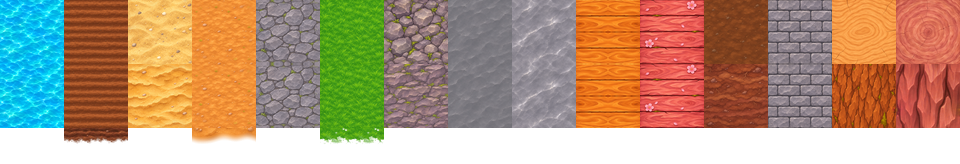
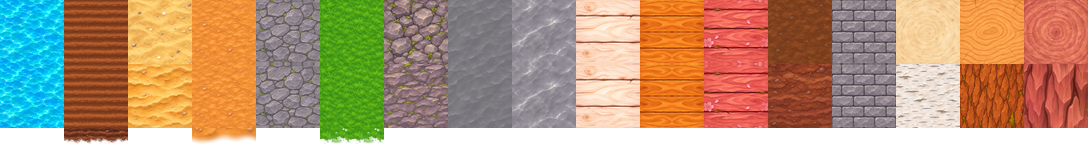
Bétula e madeira de bétula; tábuas de cerejeira contínuas (v0.89.0)
Árvore nova (3 formas) misturada aos carvalhos e macieiras dos Campos, com Tora de Bétula (topo e frente) e Tábuas de
Bétula (só o topo). Biome.altTrees generaliza a árvore misturada: a macieira mantém o sorteio de sempre, então só
alguns carvalhos viram bétula. Baú, porta, cadeira e cerca seguem só de carvalho (decisão do dono do produto).

Claude-Session: https://claude.ai/code/session_01KGdgomm438trDHTLPLqJmv

diff --git a/src/world/blocks.ts b/src/world/blocks.ts
@@ -28,6 +28,9 @@ export const Block = {
   /** Madeira de cerejeira (v0.88.0): tora (da Cerejeira derrubada) e tábuas (da tora). */
   CHERRY_LOG: 230,
   CHERRY_PLANKS: 231,
+  /** Madeira de bétula (v0.89.0): tora (da Bétula derrubada) e tábuas (da tora). */
+  BIRCH_LOG: 232,
+  BIRCH_PLANKS: 233,
   // --- porta (objeto de 3 níveis de altura; o id guarda o estado) ---
   OAK_DOOR: 28,
   /** Porta aberta: mesma porta, passável. Só existe no mundo (a hotbar coloca a fechada). */
@@ -70,6 +73,8 @@ export const Block = {
   // --- árvores (objeto alto) ---
   OAK_TREE: 40,
   SAKURA_TREE: 41,
+  /** Bétula (v0.89.0): mistura-se aos carvalhos dos Campos. */
+  BIRCH_TREE: 59,
   // --- estágios de crescimento APOSENTADOS (v0.88.0: as árvores só aparecem adultas): ids reservados, ver `GROWTH_STAGE_ADULT` ---
   OAK_SAPLING: 52,
   OAK_YOUNG: 53,
@@ -298,6 +303,8 @@ const defs: BlockDef[] = [
   object(Block.OAK_PLANKS, 'Tábua de Carvalho', { organic: 'wood' }),
   object(Block.CHERRY_LOG, 'Tora de Cerejeira', { organic: 'wood' }),
   object(Block.CHERRY_PLANKS, 'Tábua de Cerejeira', { organic: 'wood' }),
+  object(Block.BIRCH_LOG, 'Tora de Bétula', { organic: 'wood' }),
+  object(Block.BIRCH_PLANKS, 'Tábua de Bétula', { organic: 'wood' }),
   // Porta: ocupa a célula inteira (nada empilha em cima); fechada bloqueia, aberta deixa passar.
   object(Block.OAK_DOOR, 'Porta de Carvalho', { shape: 'door', organic: 'wood' }),
   object(Block.TENT, 'Tenda', { shape: 'rock', organic: 'wood' }), // madeira: o machado quebra
@@ -316,6 +323,7 @@ const defs: BlockDef[] = [
   object(Block.CACTUS, 'Cacto', { placeable: false, organic: 'plant' }),
   object(Block.OAK_TREE, 'Carvalho', { shape: 'tree', placeable: false, organic: 'wood' }),
   object(Block.SAKURA_TREE, 'Cerejeira', { shape: 'tree', placeable: false, organic: 'wood' }),
+  object(Block.BIRCH_TREE, 'Bétula', { shape: 'tree', placeable: false, organic: 'wood' }),
   // Mudas são plantas (a enxada arranca); dali em diante, madeira.
   object(Block.OAK_SAPLING, 'Muda de Carvalho', { shape: 'tree', placeable: false, organic: 'plant' }),
   object(Block.OAK_YOUNG, 'Carvalho Jovem', { shape: 'tree', placeable: false, organic: 'wood' }),
@@ -417,9 +425,11 @@ export const MATERIALS: BlockId[] = [
   Block.STONE_POLISHED,
   Block.STONE_CRACKED,
   Block.STONE_BRICK_CRACKED,
-  // Madeira de cerejeira (v0.88.0): só no V2 (não há coluna no atlas antigo, que termina nas pedras).
+  // Madeira de cerejeira (v0.88.0) e de bétula (v0.89.0): só no V2 (não há coluna no atlas antigo, que termina nas pedras).
   Block.CHERRY_LOG,
   Block.CHERRY_PLANKS,
+  Block.BIRCH_LOG,
+  Block.BIRCH_PLANKS,
 ];
 
 /** Blocos do Santuário Celestial, na ordem da prancha (e da hotbar do Santuário). */

diff --git a/src/world/trees.test.ts b/src/world/trees.test.ts
@@ -102,19 +102,41 @@ describe('Árvores adultas (carvalho, macieira, cerejeira; sem crescimento desde
     expect(applyAction(w, parseAction({ kind: 'pick', x, y })!)).toBe(true);
   });
 
-  it('Campos misturam macieiras aos carvalhos', () => {
-    expect(BIOMES.meadow.altTree).toEqual({ id: Block.APPLE_TREE, share: 1 / 6 });
+  it('Campos misturam macieiras e bétulas aos carvalhos (a macieira cai onde sempre caiu)', () => {
+    expect(BIOMES.meadow.altTrees).toEqual([{ id: Block.APPLE_TREE, share: 1 / 6 }, { id: Block.BIRCH_TREE, share: 1 / 5 }]);
     const w = new World(42);
-    let oak = 0, apple = 0;
+    let oak = 0, apple = 0, birch = 0;
     for (let y = -150; y < 150; y++) {
       for (let x = -150; x < 150; x++) {
         const id = w.getObject(x, y);
         if (id === Block.OAK_TREE) oak++;
         if (id === Block.APPLE_TREE) apple++;
+        if (id === Block.BIRCH_TREE) birch++;
       }
     }
-    expect(apple).toBeGreaterThan(0);
-    expect(apple / (oak + apple)).toBeGreaterThan(0.08);
-    expect(apple / (oak + apple)).toBeLessThan(0.3);
+    const all = oak + apple + birch;
+    expect(apple / all).toBeGreaterThan(0.1);
+    expect(apple / all).toBeLessThan(0.25);
+    expect(birch / all).toBeGreaterThan(0.1);
+    expect(birch / all).toBeLessThan(0.25);
+    expect(oak).toBeGreaterThan(apple);
+  });
+
+  it('bétula: derrubada dá 2–3 Toras de Bétula; tora vira 2 tábuas; as duas são madeira (batente) e substituem a água', () => {
+    expect(dropsFor(Block.BIRCH_TREE, () => 0)).toEqual([]);
+    expect(blockDrops(Block.BIRCH_TREE, () => 0)).toEqual([{ item: `block:${Block.BIRCH_LOG}`, count: 3 }]);
+    expect(blockDrops(Block.BIRCH_TREE, () => 0.9)).toEqual([{ item: `block:${Block.BIRCH_LOG}`, count: 2 }]);
+    const recipe = RECIPES.find((r) => r.id === 'birch-planks')!;
+    expect(recipe.inputs).toEqual([{ item: `block:${Block.BIRCH_LOG}`, count: 1 }]);
+    expect(recipe.output).toEqual({ item: `block:${Block.BIRCH_PLANKS}`, count: 2 });
+    for (const id of [Block.BIRCH_LOG, Block.BIRCH_PLANKS]) {
+      expect(BLOCKS[id].organic).toBe('wood');
+      expect(REPLACES_WATER.has(id)).toBe(true);
+      expect(MATERIALS).toContain(id);
+    }
+    // Baú, porta, cadeira e cerca continuam só de Carvalho (dono do produto): nenhuma receita aceita madeira de outra árvore.
+    for (const r of RECIPES.filter((x) => ['oak-door', 'oak-chest', 'wooden-chair', 'wooden-fence', 'wooden-gate'].includes(x.id))) {
+      for (const inp of r.inputs) expect([`block:${Block.OAK_PLANKS}`, `block:${Block.OAK_LOG}`]).toContain(inp.item);
+    }
   });
 });

diff --git a/src/world/items.ts b/src/world/items.ts
@@ -161,7 +161,7 @@ export function dropsFor(id: BlockId, rand: () => number = Math.random): Drop[] 
 function treeDrops(id: BlockId, rand: () => number): Drop[] | null {
   switch (id) {
     case Block.APPLE_TREE: return pickDrops(rand);
-    case Block.OAK_TREE: case Block.SAKURA_TREE: case Block.APPLE_TREE_BARE: return [];
+    case Block.OAK_TREE: case Block.SAKURA_TREE: case Block.BIRCH_TREE: case Block.APPLE_TREE_BARE: return [];
     default: return null;
   }
 }
@@ -261,12 +261,13 @@ const ADULT_TREES = new Set<number>([Block.OAK_TREE, Block.APPLE_TREE, Block.APP
 
 /**
  * O que um bloco quebrado devolve como material (mundos com coleta): o próprio material (cubo ou chão;
- * Terra com Grama volta como Terra com Grama), árvores dão 2–3 Toras (de Carvalho; a Cerejeira, de Cerejeira), porta volta porta.
+ * Terra com Grama volta como Terra com Grama), árvores dão 2–3 Toras (de Carvalho; a Cerejeira, de Cerejeira; a Bétula, de Bétula), porta volta porta.
  * Plantas, enfeites e blocos de outros mundos não devolvem material (plantas: ver `toolDrops`).
  */
 export function blockDrops(id: BlockId, rand: () => number = Math.random): Drop[] {
   if (ADULT_TREES.has(id)) return [{ item: blockStack(Block.OAK_LOG), count: 2 + (rand() < 0.5 ? 1 : 0) }];
   if (id === Block.SAKURA_TREE) return [{ item: blockStack(Block.CHERRY_LOG), count: 2 + (rand() < 0.5 ? 1 : 0) }]; // Cerejeira → Tora de Cerejeira
+  if (id === Block.BIRCH_TREE) return [{ item: blockStack(Block.BIRCH_LOG), count: 2 + (rand() < 0.5 ? 1 : 0) }]; // Bétula → Tora de Bétula
   if (isDoor(id)) return [{ item: blockStack(Block.OAK_DOOR), count: 1 }];
   if (isGate(id)) return [{ item: blockStack(Block.FENCE_GATE), count: 1 }];
   // Pedregulho: vira 1–3 Pedras Brutas (o bloco de pedra; colocado no mundo, é cubo).
@@ -319,6 +320,10 @@ export const RECIPES: Recipe[] = [
   {
     id: 'oak-planks', name: 'Tábua de Carvalho', profession: 'builder',
     inputs: [{ item: blockStack(Block.OAK_LOG), count: 1 }], output: { item: blockStack(Block.OAK_PLANKS), count: 2 },
+  },
+  {
+    id: 'birch-planks', name: 'Tábua de Bétula', profession: 'builder',
+    inputs: [{ item: blockStack(Block.BIRCH_LOG), count: 1 }], output: { item: blockStack(Block.BIRCH_PLANKS), count: 2 },
   },
   {
     id: 'cherry-planks', name: 'Tábua de Cerejeira', profession: 'builder',

diff --git a/src/render/textures.ts b/src/render/textures.ts
@@ -480,6 +480,8 @@ const OUTLINE: Record<number, string> = {
   [Block.OAK_PLANKS]: '#4e3018',
   [Block.CHERRY_LOG]: '#5a2a24',
   [Block.CHERRY_PLANKS]: '#6a2e2a',
+  [Block.BIRCH_LOG]: '#6a5a48',
+  [Block.BIRCH_PLANKS]: '#8a6a44',
 };
 
 // ---------------------------------------------------------------- água
@@ -518,7 +520,7 @@ function waterTile(variant: number): HTMLCanvasElement {
 // ---------------------------------------------------------------- árvores e enfeites
 
 /** Quadros de cada tira de árvore adulta (`scripts/process-trees.py`): a variante de cada árvore é sorteada pela posição. */
-const TREE_FRAMES = { oak: 3, apple: 2, cherry: 3 } as const;
+const TREE_FRAMES = { oak: 3, apple: 2, cherry: 3, birch: 3 } as const;
 /** Largura da árvore em células de mundo (o quadro tem a árvore mais larga da espécie de ponta a ponta). */
 const TREE_CELLS = 3.4;
 
@@ -534,6 +536,7 @@ function growthTreeSprites(
   const oak = stripSprites(art.oak, TREE_FRAMES.oak, T * TREE_CELLS, 6);
   const apple = stripSprites(art.apple, TREE_FRAMES.apple, T * TREE_CELLS, 6);
   const cherry = stripSprites(art.cherry, TREE_FRAMES.cherry, T * TREE_CELLS, 6);
+  const birch = stripSprites(art.birch, TREE_FRAMES.birch, T * TREE_CELLS, 6);
   const cactus = gridSprites(art.cactus, 4, 2, 1.7, 3);
   const set = (id: BlockId, frames: Sprite[]) => {
     objects.set(id, frames[0]);
@@ -543,6 +546,7 @@ function growthTreeSprites(
   set(Block.APPLE_TREE, apple);
   set(Block.APPLE_TREE_BARE, apple); // mesma variante por célula (mesma ordem): só falta a arte "colhida"
   set(Block.SAKURA_TREE, cherry);
+  set(Block.BIRCH_TREE, birch);
   set(Block.CACTUS, cactus);
   return variants;
 }

diff --git a/src/render/art/principal.ts b/src/render/art/principal.ts
@@ -160,6 +160,9 @@ import treeOak from '../../assets/tree-oak.webp';
 import treeApple from '../../assets/tree-apple.webp';
 import treeCactus from '../../assets/tree-cactus.webp';
 import treeCherry from '../../assets/tree-cherry.webp';
+import treeBirch from '../../assets/tree-birch.webp';
+import birchLogIcon from '../../assets/icon-block-birch-log.webp';
+import birchPlanksIcon from '../../assets/icon-block-birch-planks.webp';
 import cherryLogIcon from '../../assets/icon-block-cherry-log.webp';
 import cherryPlanksIcon from '../../assets/icon-block-cherry-planks.webp';
 import appleIcon from '../../assets/icon-item-apple.webp';
@@ -314,6 +317,8 @@ const pack: ArtPack = {
     [Block.OAK_PLANKS]: oakPlanksIcon,
     [Block.CHERRY_LOG]: cherryLogIcon,
     [Block.CHERRY_PLANKS]: cherryPlanksIcon,
+    [Block.BIRCH_LOG]: birchLogIcon,
+    [Block.BIRCH_PLANKS]: birchPlanksIcon,
   },
   celestialIcons: {},
   oakDoor,
@@ -328,7 +333,7 @@ const pack: ArtPack = {
     chair: { icon: chairIcon, sprite: chairSprite },
   },
   // Árvores adultas em tiras de variantes (scripts/process-trees.py); cacto: prancha 4 × 2 (scripts/extract-trees.py).
-  trees: { oak: treeOak, apple: treeApple, cherry: treeCherry, cactus: treeCactus },
+  trees: { oak: treeOak, apple: treeApple, cherry: treeCherry, birch: treeBirch, cactus: treeCactus },
   rocks,
   // Cerca de tábuas (scripts/extract-fence.py): peças emendadas por vizinhos + portão.
   fence: { pieces: fencePieces, gate: fenceGate, icon: fenceIcon, gateIcon: fenceGateIcon },

diff --git a/src/render/blockArt.ts b/src/render/blockArt.ts
@@ -33,7 +33,7 @@ let chest: HTMLImageElement | null = null;
 /** Objetos fabricados (fogueira, caldeirão, forno), por nome da arte. */
 const craftables = new Map<string, HTMLImageElement>();
 /** Pranchas de crescimento (carvalho, macieira, cacto). */
-export interface TreeArt { oak: HTMLImageElement; apple: HTMLImageElement; cherry: HTMLImageElement; cactus: HTMLImageElement }
+export interface TreeArt { oak: HTMLImageElement; apple: HTMLImageElement; cherry: HTMLImageElement; birch: HTMLImageElement; cactus: HTMLImageElement }
 let trees: TreeArt | null = null;
 /** Tira de pedregulhos. */
 let rocks: HTMLImageElement | null = null;
@@ -66,8 +66,8 @@ export async function loadBlockArt(): Promise<void> {
     fence = { pieces, gate };
   }
   if (a.trees) {
-    const [oak, apple, cherry, cactus] = await Promise.all([load(a.trees.oak), load(a.trees.apple), load(a.trees.cherry), load(a.trees.cactus)]);
-    trees = { oak, apple, cherry, cactus };
+    const [oak, apple, cherry, birch, cactus] = await Promise.all([load(a.trees.oak), load(a.trees.apple), load(a.trees.cherry), load(a.trees.birch), load(a.trees.cactus)]);
+    trees = { oak, apple, cherry, birch, cactus };
   }
   if (a.town) {
     const entries = Object.entries(a.town);

diff --git a/src/world/biomes.ts b/src/world/biomes.ts
@@ -5,8 +5,11 @@ export interface Biome {
   name: string;
   ground: BlockId;
   tree: BlockId;
-  /** Outra árvore misturada à principal (ex.: macieiras nos Campos) e a fração dela. */
-  altTree?: { id: BlockId; share: number };
+  /**
+   * Outras árvores misturadas à principal (macieiras e bétulas nos Campos) e a fração de cada uma, sorteadas na ordem
+   * (a 1ª mantém o sorteio de sempre, então acrescentar uma no fim não muda onde as anteriores caem).
+   */
+  altTrees?: ReadonlyArray<{ id: BlockId; share: number }>;
   /** Densidade base de árvores (0..1) dentro de manchas de floresta. */
   treeDensity: number;
   decorations: BlockId[];
@@ -17,7 +20,8 @@ export interface Biome {
 export const BIOMES: Record<Biome['key'], Biome> = {
   meadow: {
     key: 'meadow', name: 'Campos Verdejantes', ground: Block.GRASS,
-    tree: Block.OAK_TREE, treeDensity: 0.22, altTree: { id: Block.APPLE_TREE, share: 1 / 6 },
+    tree: Block.OAK_TREE, treeDensity: 0.22,
+    altTrees: [{ id: Block.APPLE_TREE, share: 1 / 6 }, { id: Block.BIRCH_TREE, share: 1 / 5 }],
     decorations: [Block.TALL_GRASS, Block.TALL_GRASS, Block.FLOWER], decoChance: 0.12,
   },
   sakura: {

diff --git a/src/world/generator.ts b/src/world/generator.ts
@@ -83,9 +83,12 @@ export class WorldGenerator implements TerrainSource {
     const density = biome.treeDensity * (forest > 0.05 ? 1 : 0.12);
     let object: BlockId = Block.AIR;
     if (r < density) {
-      // Árvore da vez: a principal do bioma ou, numa fração, a misturada (macieiras nos Campos).
-      const alt = biome.altTree;
-      object = alt && hash2(this.seed, x + 4409, y - 2027) < alt.share ? alt.id : biome.tree;
+      // Árvore da vez: a principal do bioma ou, numa fração, uma das misturadas (macieiras e bétulas nos Campos).
+      object = biome.tree;
+      const alts = biome.altTrees ?? [];
+      for (let i = 0; i < alts.length; i++) {
+        if (hash2(this.seed, x + 4409 + i * 1013, y - 2027 + i * 389) < alts[i].share) { object = alts[i].id; break; }
+      }
     }
     else if (r > 0.994) object = Block.ROCK_BOULDER; // pedregulhos ocasionais (arte da prancha de pedras)
     else if (hash2(this.seed, x, y + 7919) < biome.decoChance) {

diff --git a/src/render/art/types.ts b/src/render/art/types.ts
@@ -60,10 +60,10 @@ export interface ArtPack {
   /** Pedregulhos: tira de quadros iguais (`scripts/extract-rocks.py`), um sorteado por célula. */
   rocks?: string;
   /**
-   * Árvores adultas (v0.88.0, sem crescimento): tiras de variantes carvalho/macieira/cerejeira (`scripts/process-trees.py`,
+   * Árvores adultas (v0.88.0, sem crescimento): tiras de variantes carvalho/macieira/cerejeira/bétula (`scripts/process-trees.py`,
    * quadros iguais lado a lado) e a prancha 4 × 2 do cacto (`scripts/extract-trees.py`).
    */
-  trees?: { oak: string; apple: string; cherry: string; cactus: string };
+  trees?: { oak: string; apple: string; cherry: string; birch: string; cactus: string };
   /** Interiores (`scripts/extract-interiors.py`), por id de `world/interiors.ts`; carregam em segundo plano. */
   interiors?: Record<string, string>;
   /** Cidade do Despertar: construções em imagem (`scripts/extract-town.py`); o resto é pintado em código. */

diff --git a/src/render/materialsV2.ts b/src/render/materialsV2.ts
@@ -43,6 +43,9 @@ export const V2_BLOCKS: Partial<Record<BlockId, V2Block>> = {
   // Madeira de cerejeira (v0.88.0): tora com topo e frente próprios; tábuas só com o topo (a frente repete o topo).
   [Block.CHERRY_LOG]: { top: 'tora-de-cerejeira', front: 'tora-de-cerejeira' },
   [Block.CHERRY_PLANKS]: { top: 'tabuas-de-cerejeira', front: 'tabuas-de-cerejeira' },
+  // Madeira de bétula (v0.89.0): mesma regra — tora com topo e frente, tábuas só com o topo.
+  [Block.BIRCH_LOG]: { top: 'tora-de-betula', front: 'tora-de-betula' },
+  [Block.BIRCH_PLANKS]: { top: 'tabuas-de-betula', front: 'tabuas-de-betula' },
   // Caminho de Terra e Terra Arada: a frente é sempre terra (regra do dono do produto), com a franja do próprio topo.
   [Block.PATH]: { top: 'caminho', front: 'terra', overlay: 'caminho' },
   [Block.TILLED]: { top: 'arada', front: 'terra', overlay: 'arada' },

diff --git a/src/game/axe.test.ts b/src/game/axe.test.ts
@@ -14,8 +14,8 @@ describe('Machado', () => {
     for (const id of [Block.DIRT, Block.GRASS, Block.TILLED, Block.PATH, Block.SAND, Block.STONE]) {
       expect(toolCanBreak('axe', id)).toBe(false);
     }
-    // Materiais da prancha: só tora e tábuas (carvalho e cerejeira) são de madeira.
-    expect(MATERIALS.filter((m) => BLOCKS[m].organic !== null)).toEqual([Block.OAK_LOG, Block.OAK_PLANKS, Block.CHERRY_LOG, Block.CHERRY_PLANKS]);
+    // Materiais da prancha: só tora e tábuas (carvalho, cerejeira e bétula) são de madeira.
+    expect(MATERIALS.filter((m) => BLOCKS[m].organic !== null)).toEqual([Block.OAK_LOG, Block.OAK_PLANKS, Block.CHERRY_LOG, Block.CHERRY_PLANKS, Block.BIRCH_LOG, Block.BIRCH_PLANKS]);
   });
 
   it('espada não quebra nada; mão vazia/itens quebram tudo', () => {

diff --git a/src/world/world.ts b/src/world/world.ts
@@ -36,7 +36,7 @@ export const CHEST_SLOTS = 27;
 /** Um espaço de baú: pilha (id do que se carrega + quantidade) ou vazio. */
 export type ChestSlots = Array<{ item: string; count: number } | null>;
 
-export const REPLACES_WATER = new Set<number>([Block.DIRT, Block.GRASS, Block.TILLED, Block.PATH, Block.STONE, Block.OAK_LOG, Block.OAK_PLANKS, Block.CHERRY_LOG, Block.CHERRY_PLANKS]);
+export const REPLACES_WATER = new Set<number>([Block.DIRT, Block.GRASS, Block.TILLED, Block.PATH, Block.STONE, Block.OAK_LOG, Block.OAK_PLANKS, Block.CHERRY_LOG, Block.CHERRY_PLANKS, Block.BIRCH_LOG, Block.BIRCH_PLANKS]);
 /** Tempo para a água encher um buraco vizinho (s). */
 export const FLOW_SECONDS = 0.6;
 
